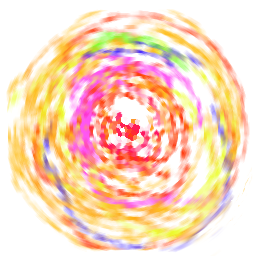
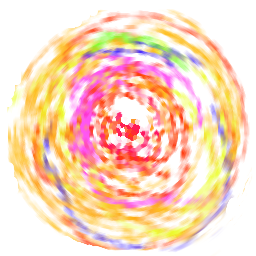
-Reworked Field rendering. -Tweaked storm programmer art.
git-svn-id: https://freeorion.svn.sourceforge.net/svnroot/freeorion/trunk@5230 dbd5520b-6a0a-0410-a553-f54834df5b05

diff --git a/FreeOrion/UI/MapWnd.cpp b/FreeOrion/UI/MapWnd.cpp
@@ -994,72 +994,20 @@ void MapWnd::RenderStarfields() {
 }
 
 void MapWnd::RenderFields() {
-    const ObjectMap& objects = GetUniverse().Objects();
-    const std::vector<const Field*> fields = objects.FindObjects<Field>();
-    //const std::set<int> visible_object_ids = GetUniverse().EmpireVisibleObjectIDs();
-
-    glPushClientAttrib(GL_CLIENT_ALL_ATTRIB_BITS);
-    glEnableClientState(GL_VERTEX_ARRAY);
-
-    const double TWO_PI = 2.0*3.1415926536;
-    const GG::Pt UNIT(GG::X1, GG::Y1);
-
-    glLineWidth(1.5);
     glPushMatrix();
     glLoadIdentity();
-    glEnable(GL_LINE_SMOOTH);
-    glDisable(GL_TEXTURE_2D);
-    // draw circle for each field
-    for (std::vector<const Field*>::const_iterator field_it = fields.begin(); field_it != fields.end(); ++field_it) {
-        const Field* field = *field_it;
-
-        GG::Clr circle_colour = GG::CLR_MAGENTA;
-
-        GG::Pt circle_centre = ScreenCoordsFromUniversePosition(field->X(), field->Y());
-        double size = field->CurrentMeterValue(METER_SIZE);
-        double radius = size*ZoomFactor();
-        if (radius < ClientUI::SystemTinyIconSizeThreshold())
-            radius = ClientUI::SystemTinyIconSizeThreshold();
-
-        GG::Pt ul = circle_centre - GG::Pt(GG::X(static_cast<int>(radius)), GG::Y(static_cast<int>(radius)));
-        GG::Pt lr = circle_centre + GG::Pt(GG::X(static_cast<int>(radius)), GG::Y(static_cast<int>(radius)));
-
-        glColor(circle_colour);
-        CircleArc(ul, lr, 0.0, TWO_PI, false);
-    }
-
-    glEnable(GL_TEXTURE_2D);
-
     glColor(GG::CLR_WHITE);
-    for (std::vector<const Field*>::const_iterator field_it = fields.begin(); field_it != fields.end(); ++field_it) {
-        const Field* field = *field_it;
-        const std::string& field_type_name = field->FieldTypeName();
-        if (field_type_name.empty())
-            continue;
-        const FieldType* ft = GetFieldType(field_type_name);
-        if (!ft)
-            continue;
-        const std::string& texture_name = ft->Graphic();
-        if (texture_name.empty())
-            continue;
-
-        GG::Pt circle_centre = ScreenCoordsFromUniversePosition(field->X(), field->Y());
-        double radius = field->CurrentMeterValue(METER_SIZE)*ZoomFactor();
-        if (radius < 10.0)
-            continue;
-
-        GG::Pt ul = circle_centre - GG::Pt(GG::X(static_cast<int>(radius)), GG::Y(static_cast<int>(radius)));
-        GG::Pt lr = circle_centre + GG::Pt(GG::X(static_cast<int>(radius)), GG::Y(static_cast<int>(radius)));
-
-        boost::shared_ptr<GG::Texture> texture = ClientUI::GetTexture(ClientUI::ArtDir() / texture_name, true);
+    for (std::map<int, FieldIcon*>::const_iterator it = m_field_icons.begin();
+         it != m_field_icons.end(); ++it)
+    {
+        const FieldIcon* icon = it->second;
+        GG::Pt ul = icon->UpperLeft();
+        GG::Pt lr = icon->LowerRight();
+        boost::shared_ptr<GG::Texture> texture = icon->FieldTexture();
         if (texture)
             texture->OrthoBlit(ul, lr);
     }
-
     glPopMatrix();
-    glLineWidth(1.0);
-
-    glPopClientAttrib();
 }
 
 void MapWnd::RenderGalaxyGas() {

diff --git a/FreeOrion/UI/FieldIcon.cpp b/FreeOrion/UI/FieldIcon.cpp
@@ -108,7 +108,7 @@ void FieldIcon::Refresh() {
     const FieldType* type = GetFieldType(field->FieldTypeName());
     if (!type)
         return;
-    m_texture = ui->GetTexture(ClientUI::ArtDir() / type->Graphic());
+    m_texture = ui->GetTexture(ClientUI::ArtDir() / type->Graphic(), true);
 }
 
 void FieldIcon::Render()
